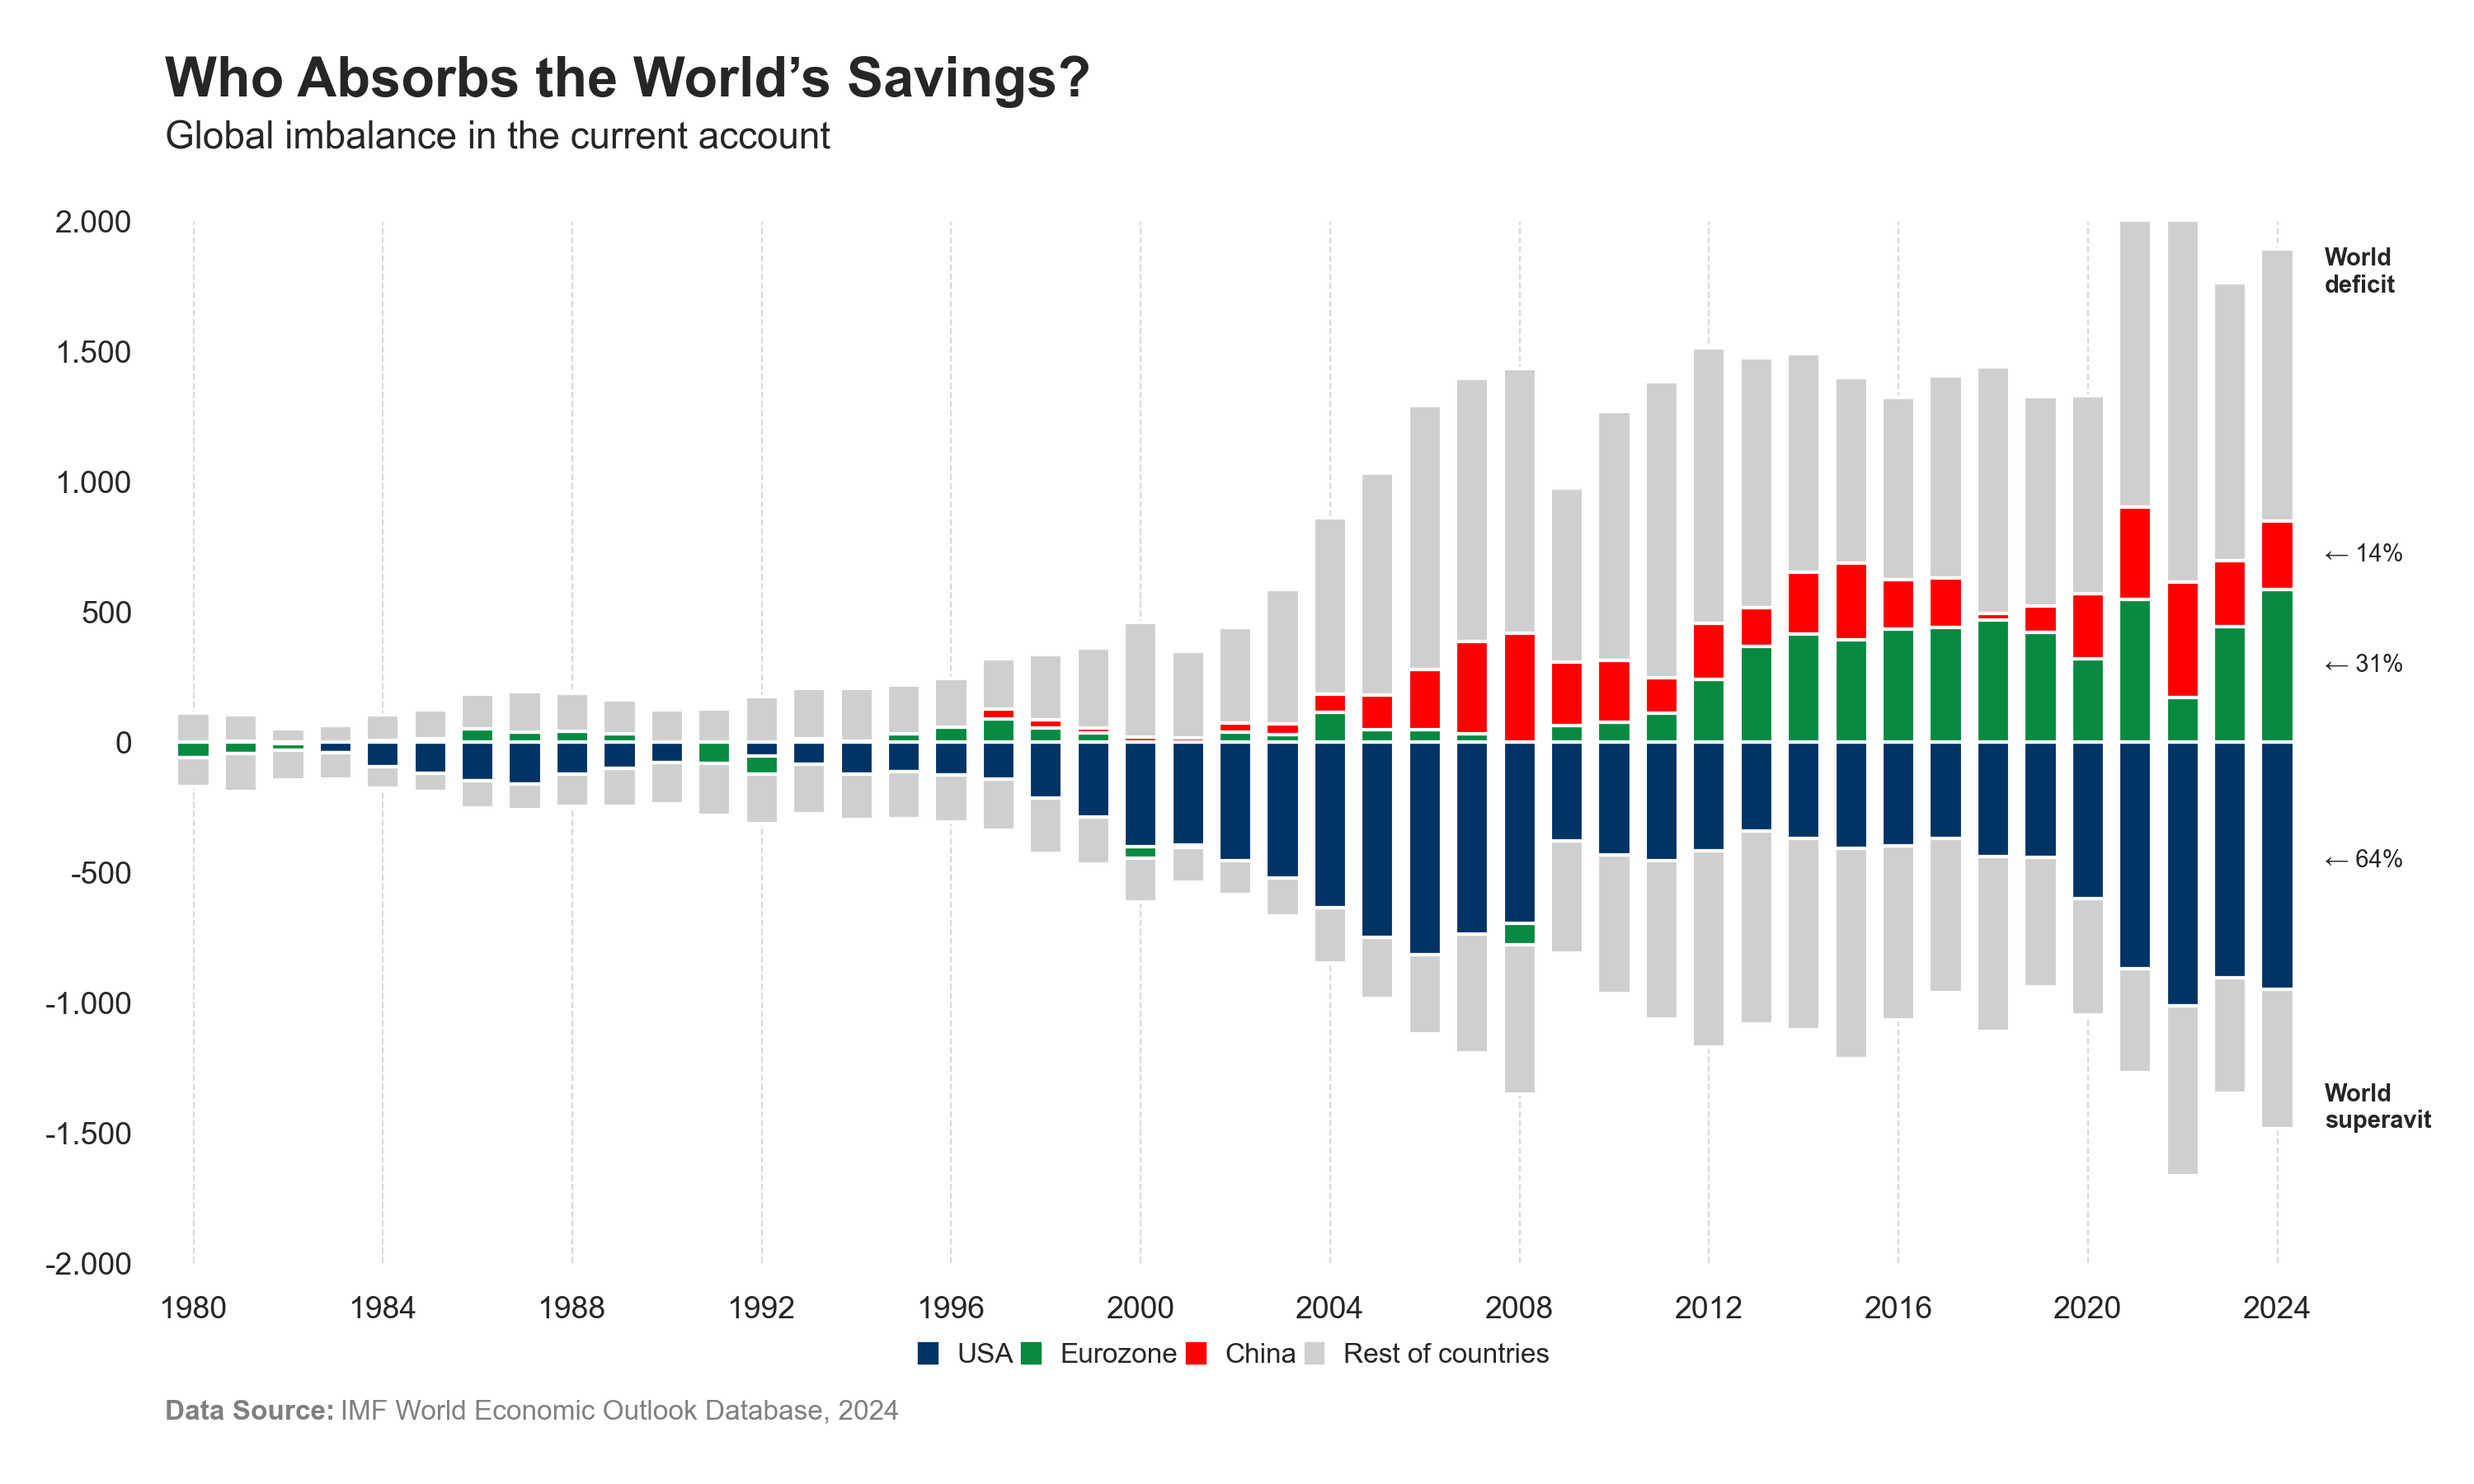
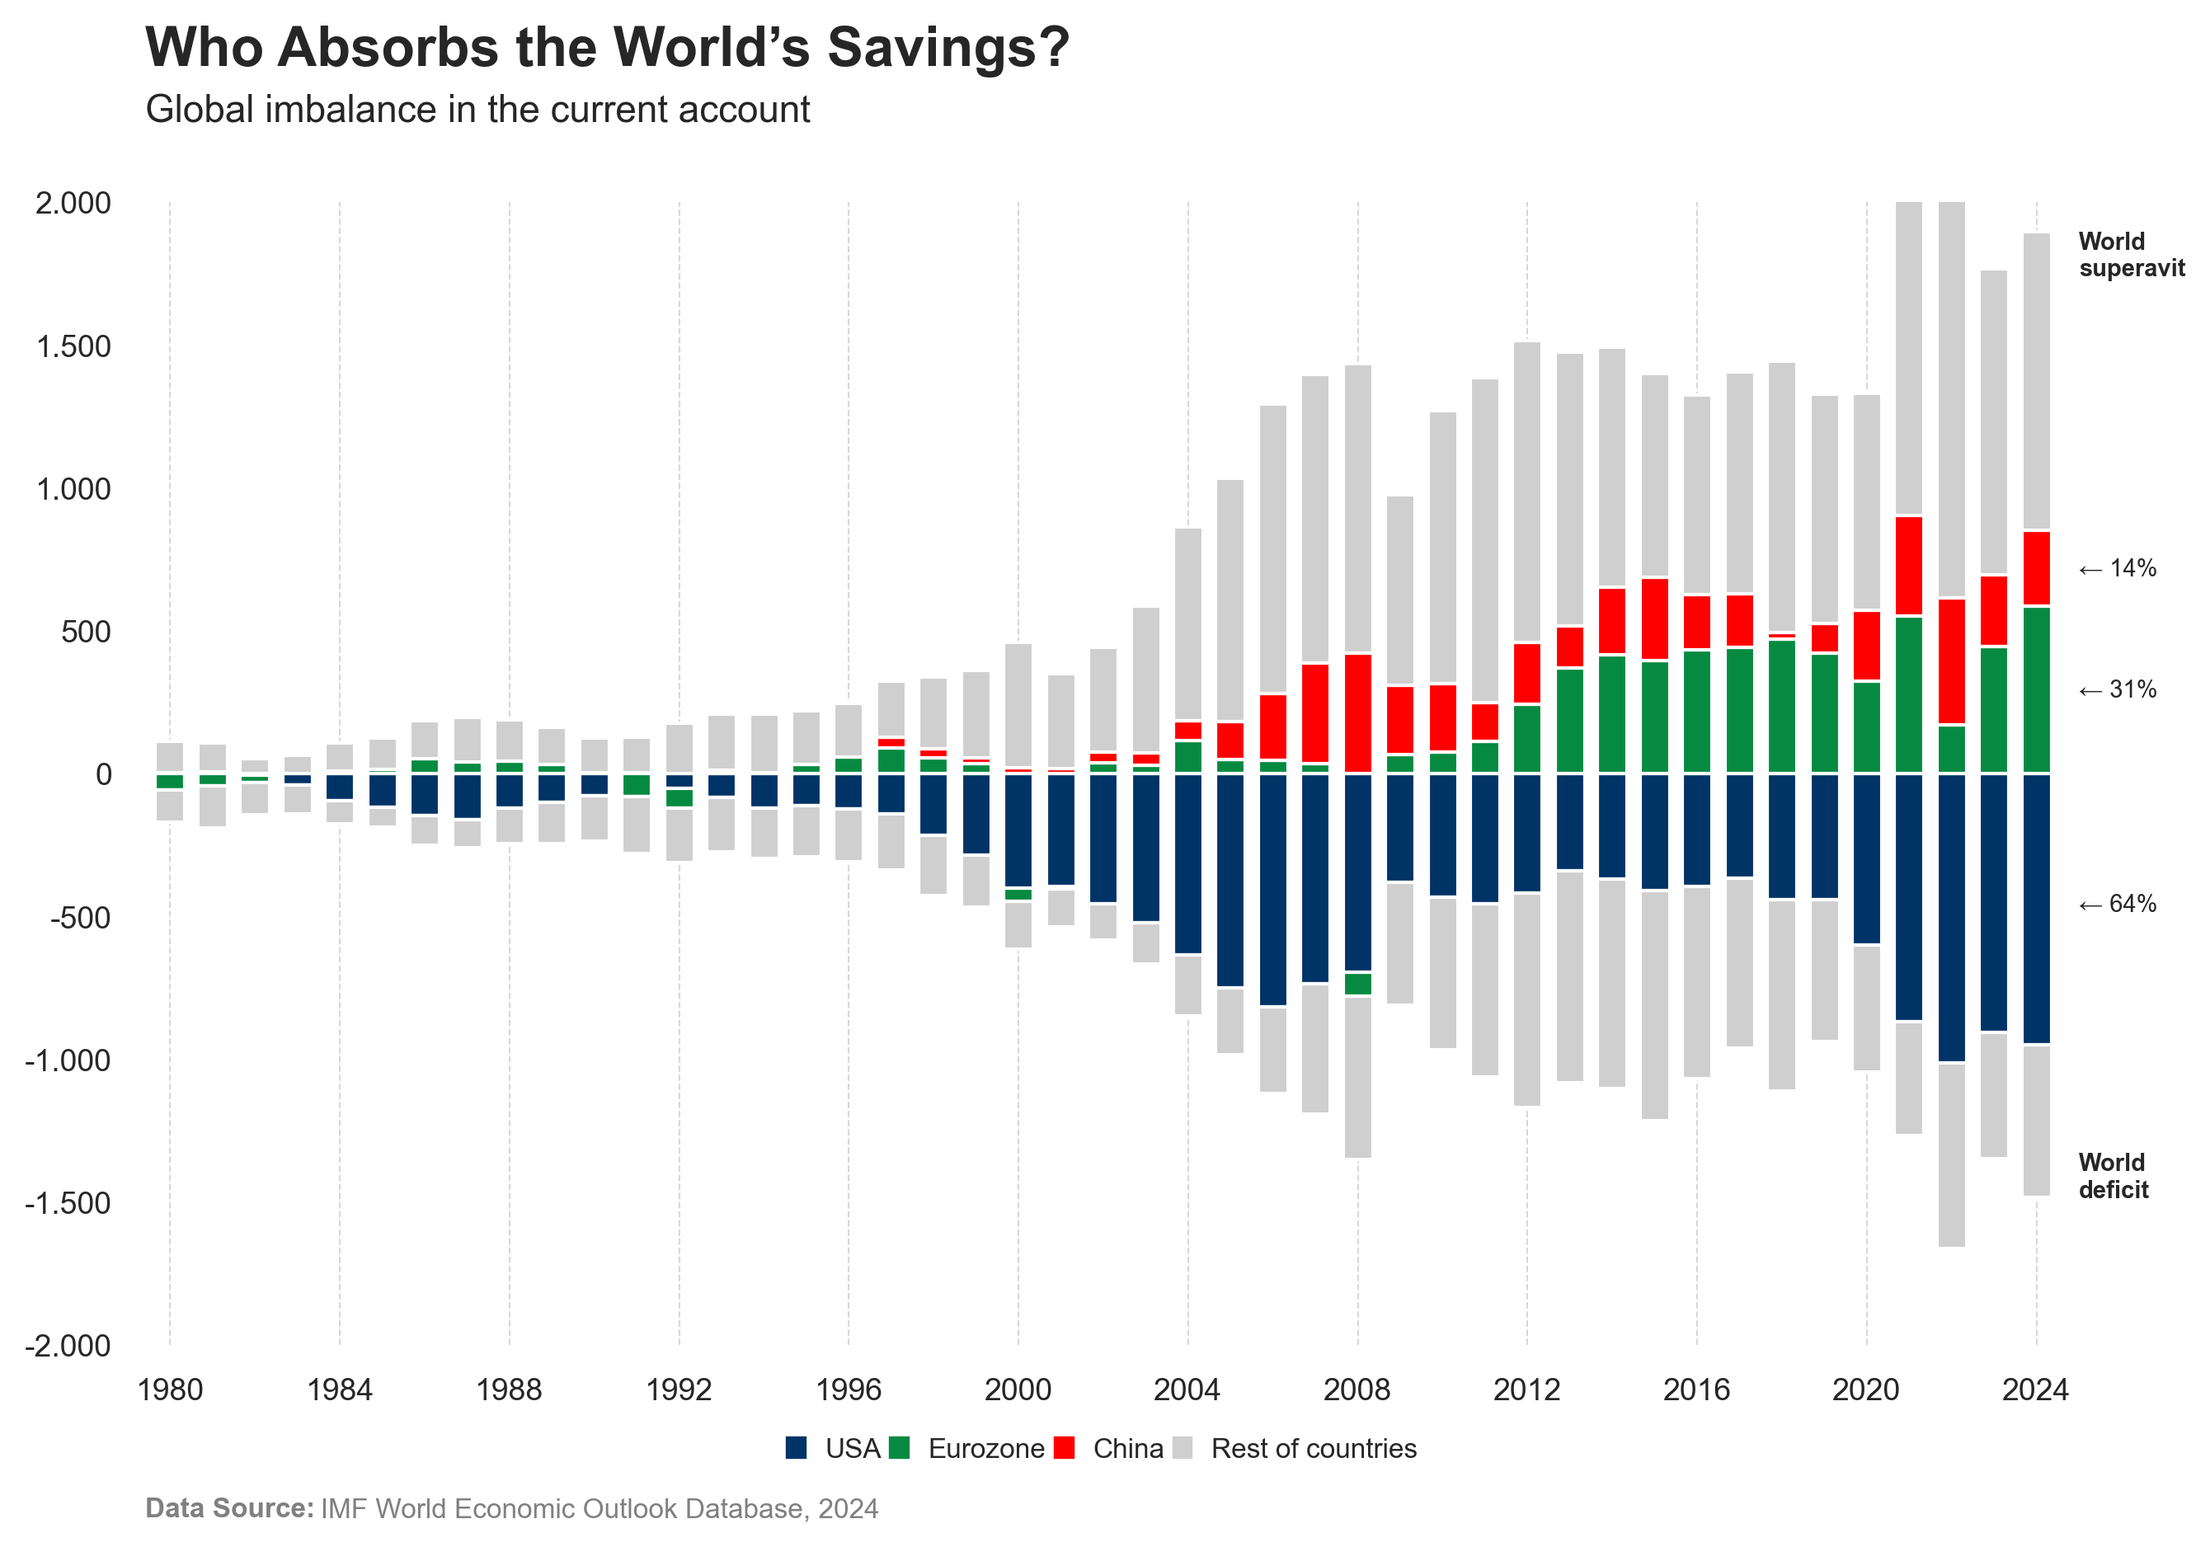
current account v2

diff --git a/docs/posts/202603-current-account-balance/index.html b/docs/posts/202603-current-account-balance/index.html
@@ -6,7 +6,7 @@
 
 <meta name="viewport" content="width=device-width, initial-scale=1.0, user-scalable=yes">
 
-<meta name="keywords" content="income, wealth">
+<meta name="keywords" content="exorbitant privilege">
 <meta name="description" content="An analysis of global imbalance in the current account.">
 
 <title>Who absorbs the World’s savings?</title>
@@ -198,7 +198,7 @@ gtag('config', 'G-GJVKVH4E2Y', { 'anonymize_ip': true});
 <div>
   <div class="keywords">
     <div class="block-title">Keywords</div>
-    <p>income, wealth</p>
+    <p>exorbitant privilege</p>
   </div>
 </div>
 
@@ -207,7 +207,7 @@ gtag('config', 'G-GJVKVH4E2Y', { 'anonymize_ip': true});
 
 <section id="summary" class="level2">
 <h2 class="anchored" data-anchor-id="summary">Summary</h2>
-<p>Global trade imbalances reveal structural asymmetries in the international financial system, with the United States playing a unique role due to the dominance of the U.S. dollar. While some economies accumulate surpluses, the U.S. consistently runs large trade deficits. This persistent imbalance is not simply a weakness but a reflection of the “exorbitant privilege” of the dollar as the world’s primary reserve currency.</p>
+<p>Global trade imbalances reveal structural asymmetries in the international financial system, with the United States playing a unique role due to the dominance of the U.S. dollar. While some economies accumulate surpluses, the U.S. consistently runs large trade deficits. This persistent imbalance is not simply a weakness but a reflection of the <code>exorbitant privilege</code>` of the dollar as the world’s primary reserve currency.</p>
 <div id="income-50-50" class="cell" data-execution_count="1">
 <details class="code-fold">
 <summary>Code</summary>
@@ -366,8 +366,8 @@ gtag('config', 'G-GJVKVH4E2Y', { 'anonymize_ip': true});
 <span id="cb1-153"><a href="#cb1-153" aria-hidden="true" tabindex="-1"></a>plt.text(<span class="dv">45</span>, <span class="dv">250</span>, <span class="ss">f"← </span><span class="sc">{</span>eur_percent<span class="sc">:.0%}</span><span class="ss">"</span>, fontsize<span class="op">=</span><span class="dv">7</span>, ha<span class="op">=</span><span class="st">'left'</span>, va<span class="op">=</span><span class="st">'bottom'</span>)</span>
 <span id="cb1-154"><a href="#cb1-154" aria-hidden="true" tabindex="-1"></a>plt.text(<span class="dv">45</span>, <span class="dv">675</span>, <span class="ss">f"← </span><span class="sc">{</span>chn_percent<span class="sc">:.0%}</span><span class="ss">"</span>, fontsize<span class="op">=</span><span class="dv">7</span>, ha<span class="op">=</span><span class="st">'left'</span>, va<span class="op">=</span><span class="st">'bottom'</span>)</span>
 <span id="cb1-155"><a href="#cb1-155" aria-hidden="true" tabindex="-1"></a></span>
-<span id="cb1-156"><a href="#cb1-156" aria-hidden="true" tabindex="-1"></a>plt.text(<span class="dv">45</span>, <span class="dv">1900</span>, <span class="ss">f"World</span><span class="ch">\n</span><span class="ss">deficit"</span>, fontsize<span class="op">=</span><span class="dv">7</span>, fontweight <span class="op">=</span> <span class="st">'bold'</span>, ha<span class="op">=</span><span class="st">'left'</span>, va<span class="op">=</span><span class="st">'top'</span>)</span>
-<span id="cb1-157"><a href="#cb1-157" aria-hidden="true" tabindex="-1"></a>plt.text(<span class="dv">45</span>, <span class="op">-</span><span class="dv">1500</span>, <span class="ss">f"World</span><span class="ch">\n</span><span class="ss">superavit"</span>, fontsize<span class="op">=</span><span class="dv">7</span>, fontweight <span class="op">=</span> <span class="st">'bold'</span>, ha<span class="op">=</span><span class="st">'left'</span>, va<span class="op">=</span><span class="st">'bottom'</span>)</span>
+<span id="cb1-156"><a href="#cb1-156" aria-hidden="true" tabindex="-1"></a>plt.text(<span class="dv">45</span>, <span class="dv">1900</span>, <span class="ss">f"World</span><span class="ch">\n</span><span class="ss">superavit"</span>, fontsize<span class="op">=</span><span class="dv">7</span>, fontweight <span class="op">=</span> <span class="st">'bold'</span>, ha<span class="op">=</span><span class="st">'left'</span>, va<span class="op">=</span><span class="st">'top'</span>)</span>
+<span id="cb1-157"><a href="#cb1-157" aria-hidden="true" tabindex="-1"></a>plt.text(<span class="dv">45</span>, <span class="op">-</span><span class="dv">1500</span>, <span class="ss">f"World</span><span class="ch">\n</span><span class="ss">deficit"</span>, fontsize<span class="op">=</span><span class="dv">7</span>, fontweight <span class="op">=</span> <span class="st">'bold'</span>, ha<span class="op">=</span><span class="st">'left'</span>, va<span class="op">=</span><span class="st">'bottom'</span>)</span>
 <span id="cb1-158"><a href="#cb1-158" aria-hidden="true" tabindex="-1"></a></span>
 <span id="cb1-159"><a href="#cb1-159" aria-hidden="true" tabindex="-1"></a><span class="co"># Remove spines</span></span>
 <span id="cb1-160"><a href="#cb1-160" aria-hidden="true" tabindex="-1"></a><span class="cf">for</span> spine <span class="kw">in</span> plt.gca().spines.values():</span>

diff --git a/docs/posts.html b/docs/posts.html
@@ -228,7 +228,7 @@ Title
 </tr>
 </thead>
 <tbody class="list">
-<tr data-index="0" data-categories="ZWNvbm9teSUyQ3B5dGhvbg==" data-listing-date-sort="1773442800000" data-listing-file-modified-sort="1739552138206" data-listing-date-modified-sort="NaN" data-listing-reading-time-sort="4" data-listing-word-count-sort="708" data-listing-title-sort="Who absorbs the World's savings?" data-listing-filename-sort="index.qmd">
+<tr data-index="0" data-categories="ZWNvbm9teSUyQ3B5dGhvbg==" data-listing-date-sort="1773442800000" data-listing-file-modified-sort="1739552898259" data-listing-date-modified-sort="NaN" data-listing-reading-time-sort="4" data-listing-word-count-sort="708" data-listing-title-sort="Who absorbs the World's savings?" data-listing-filename-sort="index.qmd">
 <td>
 <span class="listing-date">Mar 14, 2026</span>
 </td>
